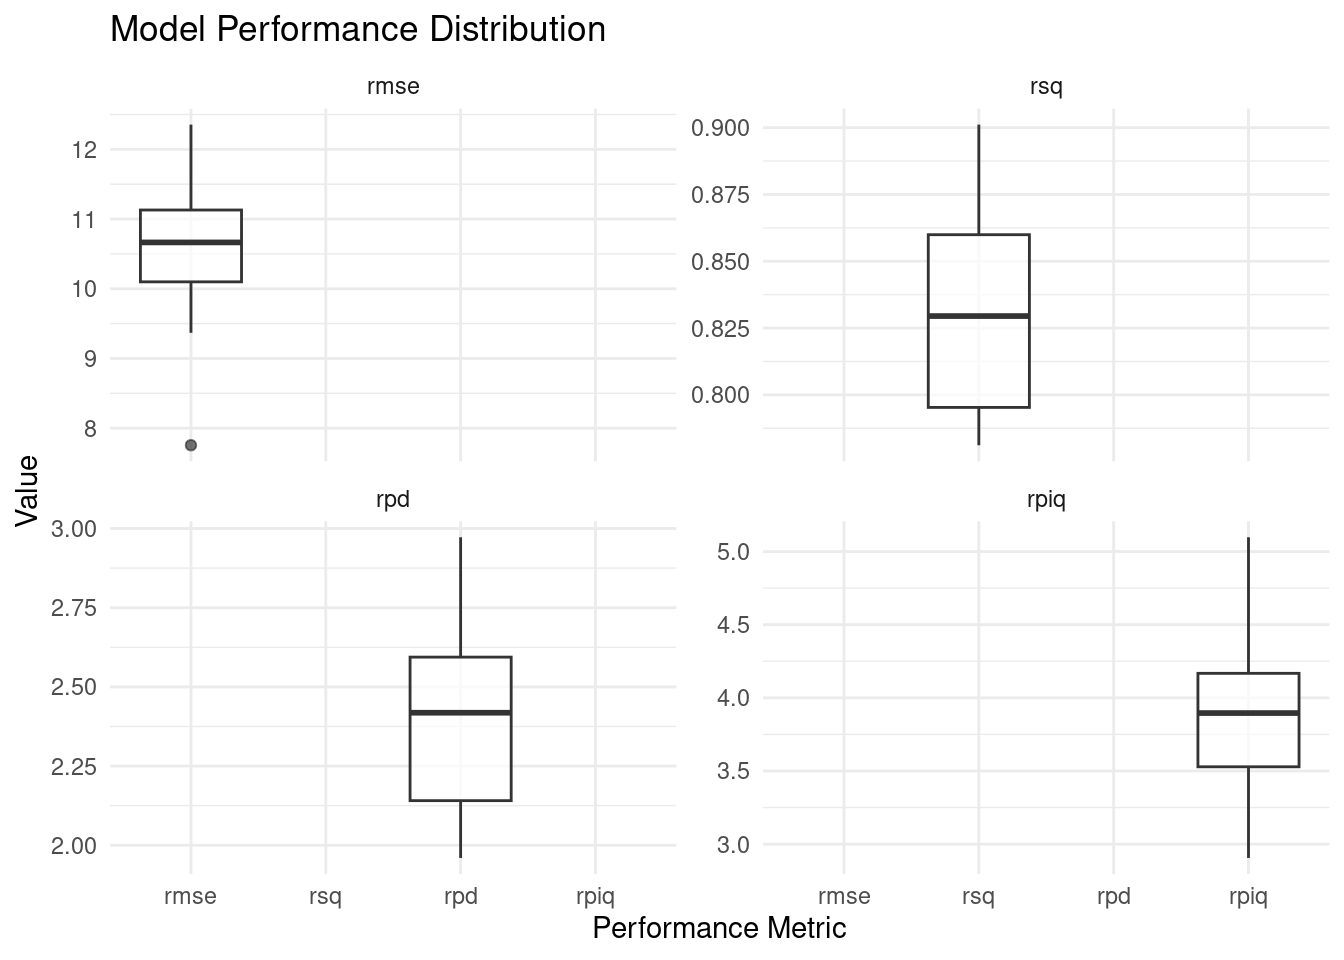
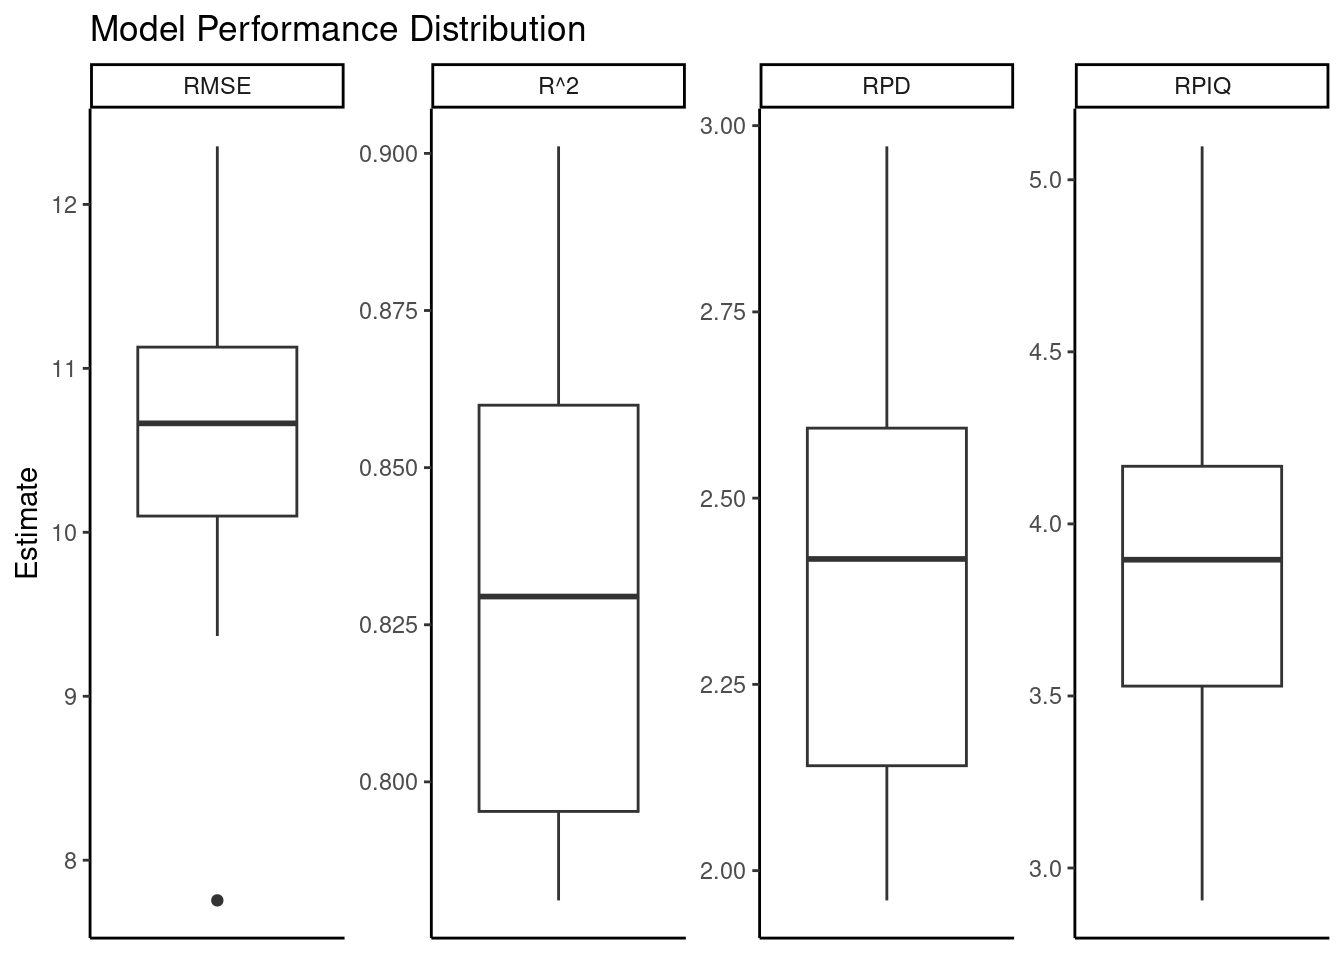
compiles, figure 3 needs to be cleaned up

diff --git a/docs/hemp_nir_paper.html b/docs/hemp_nir_paper.html
@@ -920,10 +920,22 @@ Figure&nbsp;3: Final model testing set performance over 1000 iterations
 </div>
 </div>
 </div>
-<p>Finally, the pattern of test set errors was examined on a per-sample basis by calculating the difference between the actual and predicted values for the samples in the test sets (<strong>?@fig-validation-errors</strong>). The models showed systematic bias, with overestimation in the lowest tertile and underestimation in the highest tertile samples. The variance of the errors did not increase appreciably as CP concentration increased.</p>
+<p>Finally, the pattern of test set errors was examined on a per-sample basis by calculating the difference between the actual and predicted values for the samples in the test sets (<a href="#fig-validation-errors" class="quarto-xref">Figure&nbsp;4</a>). The models showed systematic bias, with overestimation in the lowest tertile and underestimation in the highest tertile samples. The variance of the errors did not increase appreciably as CP concentration increased.</p>
 <div class="cell">
-<div class="cell-output cell-output-stdout">
-<pre><code>NULL</code></pre>
+<div class="cell-output cell-output-stderr">
+<pre><code>`geom_smooth()` using formula = 'y ~ x'</code></pre>
+</div>
+<div class="cell-output-display">
+<div id="fig-validation-errors" class="quarto-figure quarto-figure-center quarto-float anchored">
+<figure class="quarto-float quarto-float-fig figure">
+<div aria-describedby="fig-validation-errors-caption-0ceaefa1-69ba-4598-a22c-09a6ac19f8ca">
+<img src="hemp_nir_paper_files/figure-html/fig-validation-errors-1.png" class="img-fluid figure-img" width="672">
+</div>
+<figcaption class="quarto-float-caption-bottom quarto-float-caption quarto-float-fig" id="fig-validation-errors-caption-0ceaefa1-69ba-4598-a22c-09a6ac19f8ca">
+Figure&nbsp;4: Testing set prediction errors on a per-sample basis. Actual sample value set to zero and samples ranked from least to greatest actual CP concentration value
+</figcaption>
+</figure>
+</div>
 </div>
 </div>
 <p>The research showed the promise of the use of NIRS in order to make predictions concerning CP concentration in hemp grain using PLS. Promising preprocessing methods were identified and a model was validated. Further research could refine the model by including more samples, particularly by rectifying the class imbalance between Geneva and Ithaca, identifying promising spectral regions, or by examining other predictive methods.</p>
@@ -982,7 +994,7 @@ Figure&nbsp;3: Final model testing set performance over 1000 iterations
 <img src="hemp_nir_paper_files/figure-html/fig-model-comparison-1.png" class="img-fluid figure-img" width="672">
 </div>
 <figcaption class="quarto-float-caption-bottom quarto-float-caption quarto-float-fig" id="fig-model-comparison-caption-0ceaefa1-69ba-4598-a22c-09a6ac19f8ca">
-Figure&nbsp;4: Comparing models developed using full and protein-specific spectra
+Figure&nbsp;5: Comparing models developed using full and protein-specific spectra
 </figcaption>
 </figure>
 </div>
@@ -996,7 +1008,7 @@ Figure&nbsp;4: Comparing models developed using full and protein-specific spectr
 <section id="conflict-of-interest" class="level2" data-number="8">
 <h2 data-number="8" class="anchored" data-anchor-id="conflict-of-interest"><span class="header-section-number">8</span> CONFLICT OF INTEREST</h2>
 <p>The authors declare no conflict of interest.</p>
-<p><strong>Generated:</strong> 2025-07-01 13:49:08<br>
+<p><strong>Generated:</strong> 2025-07-01 14:41:11<br>
 <strong>Framework:</strong> Targets-based reproducible workflow</p>
 
 
